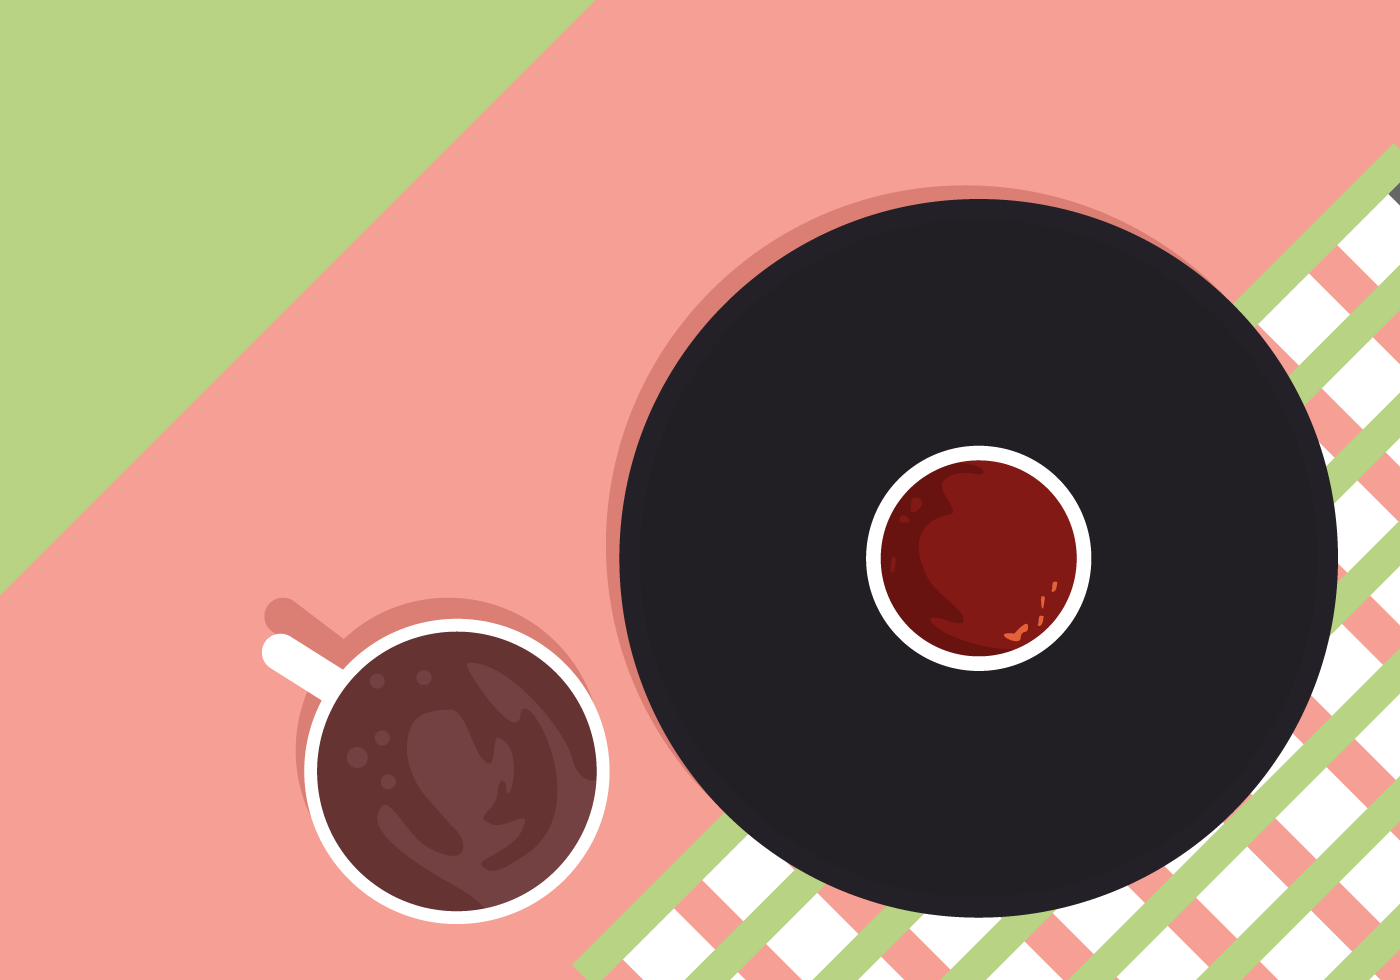
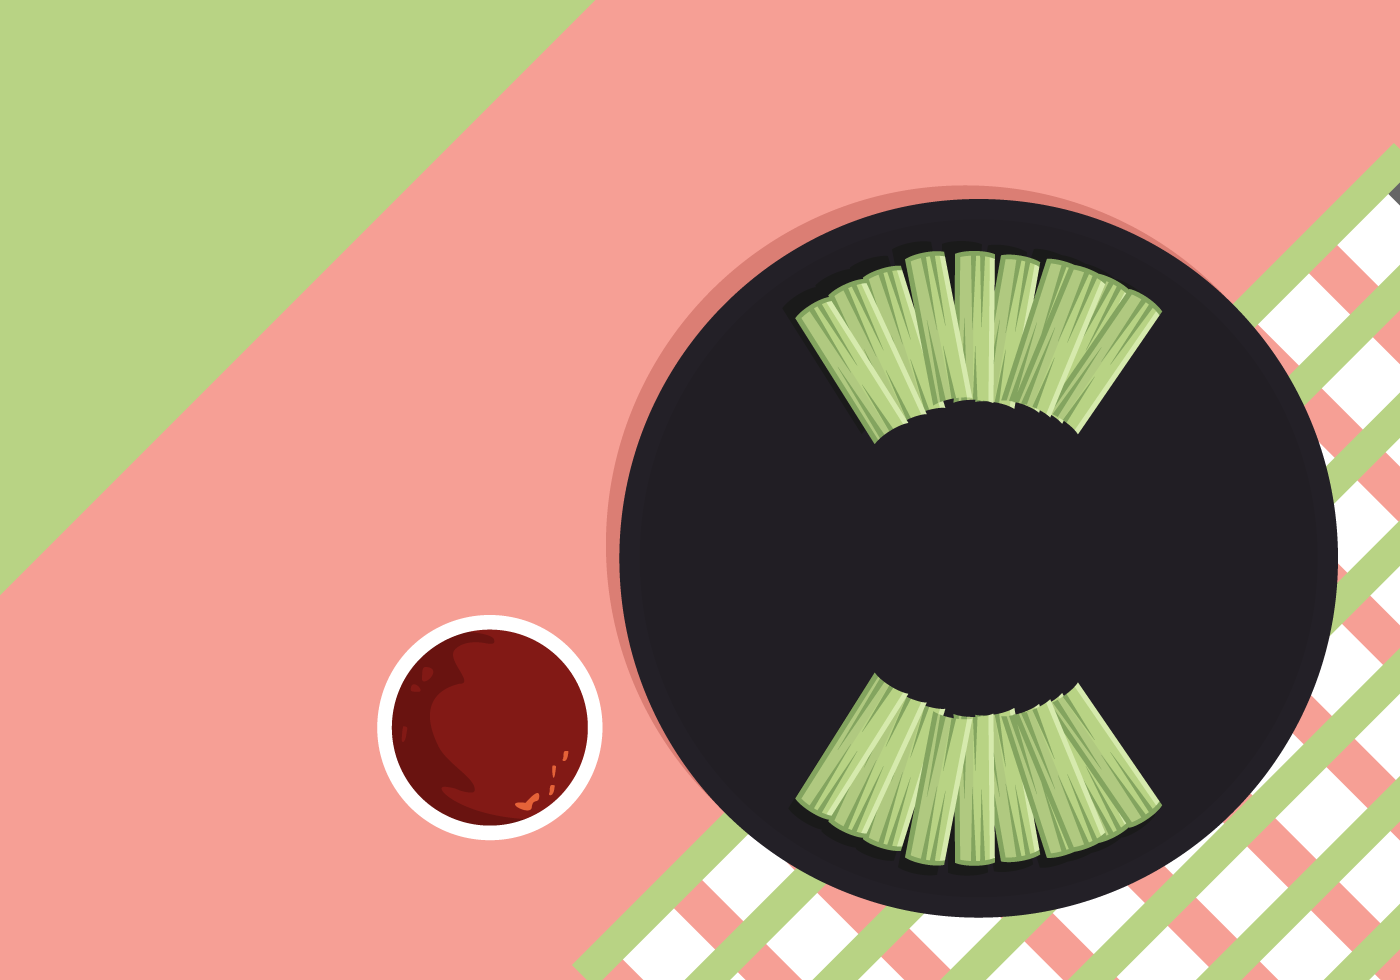
wings

Changed region(s): [[0.5529, 0.2449, 0.8293, 0.8878], [0.1843, 0.6122, 0.4607, 0.949]]

diff --git a/scripts.js b/scripts.js
@@ -7,37 +7,59 @@ class wingClass {
     }
 
     getPrice () {
-        console.log(Math.round(this.price * this.amount));
+        //console.log(Math.round(this.price * this.amount));
     }
 
     getAmount () {
-        console.log(this.amount);
+        //console.log(this.amount);
     }
 
     getCalories () {
-        console.log(81 * this.amount);
+        //console.log(81 * this.amount);
     }
     
     addWingAmountToDom(){
-            for (var i = 0; i <= this.amount; i++) {
+        for (var i = 0; i < this.amount; i++) {
           document.getElementById("bucket").innerHTML += this.img + "\n";
         }     		
     }
 }
 
+var wingCount = 4; 
+document.getElementById("wing-amount").innerHTML = wingCount;
 document.addEventListener("click", function(e) {
-  if (e.target.id == "plain") {
-    var wingOrderPlain = new wingClass(document.getElementById("wing-amount").value, 0.98, "<img src='assets/wing.png'/>");
+    if (e.target.id == "more") {
+        document.getElementById("wing-amount").innerHTML = wingCount = wingCount + 1;
+    } 
+});
+
+
+document.addEventListener("click", function(e) {
+ if (e.target.id == "plain") {
+    var wingOrderPlain = new wingClass(parseInt(document.getElementById("wing-amount").innerHTML), 0.98, "<div class='wing-container'><img class='wing' src='assets/wing.png'/></div>");
+    wingOrderPlain.getAmount();
     wingOrderPlain.addWingAmountToDom();
     wingOrderPlain.getPrice();
     wingOrderPlain.getCalories()
 } else if (e.target.id === "bbq" || e.target.id === "honey-bbq") {
-    var wingOrderBBQ = new wingClass(document.getElementById("wing-amount").value, 1.05);
+    var wingOrderBBQ = new wingClass(document.getElementById("wing-amount").innerHTML, 1.05, "<div class='wing-container'><img class='wing' src='assets/wing_bbq.png'/></div>");
+    wingOrderBBQ.addWingAmountToDom();
     wingOrderBBQ.getPrice();
+    wingOrderBBQ.getCalories()
 } else if (e.target.id === "sweet-chilli") {
     var wingOrderSweetChilli = new wingClass(document.getElementById("wing-amount").value, 1.19);
     wingOrderSweetChilli.getPrice();
-} else {
+} else if (e.target.id === "clear") {
     document.getElementById("bucket").innerHTML = "";
+    wingCount = 4;
+    document.getElementById("wing-amount").innerHTML = wingCount;
 }
+
+if (document.querySelectorAll(".wing").length > 12) {
+    for (var w = 0; w < document.querySelectorAll(".wing").length; w++) {
+        document.querySelectorAll(".wing")[w].style.width = "150px";
+    }
+}
+
 });
+

diff --git a/styles.css b/styles.css
@@ -5,3 +5,51 @@ body {
     background-attachment: fixed;
     background-position: 50% 70%;
 }
+
+#bucket {
+    position: relative;
+    width: 825px;
+    height: 400px;
+    float: right;
+    top: 148px;
+    left: -157px;
+}
+
+.wing-container {
+    opacity: 0;
+	-webkit-animation: pop 0.2s 1;
+	animation: pop 0.2s 1;
+	-webkit-animation-fill-mode: forwards;
+    animation-fill-mode: forwards;
+    display: inline-block;
+}
+
+.wing-container:nth-of-type(even) .wing {
+    -webkit-transform:rotate(-138deg);
+    -moz-transform: rotate(-138deg);
+    -ms-transform: rotate(-138deg);
+    -o-transform: rotate(-138deg);
+    transform: rotate(-138deg);
+    width: 190px;
+}
+
+.wing-container:nth-of-type(odd) .wing {
+    -webkit-transform:rotate(-181deg);
+    -moz-transform: rotate(-181deg);
+    -ms-transform: rotate(-181deg);
+    -o-transform: rotate(-181deg);
+    transform: rotate(-181deg);
+    margin: 5px;
+    width: 190px;
+}
+
+@-webkit-keyframes pop {
+    0% { 
+        opacity: 0;
+        transform: scale(0.5);
+    }
+    100% {
+        opacity: 1;
+        transform: scale(1);
+    }
+  }

diff --git a/index.html b/index.html
@@ -5,14 +5,9 @@
 <link rel="stylesheet" type="text/css" href="styles.css">
 </head>
 <body>
-    <select id="wing-amount">
-        <option value="4">4</option>
-        <option value="8">8</option>
-        <option value="12">12</option>
-        <option value="16">16</option>
-        <option value="20">20</option>
-      </select>
-      
+    <span id="wing-amount">
+    </span>
+    <span id="more">+</span><br>
       <span id="plain">Plain</span>
       <span id="bbq">BBQ</span>
       <span id="honey-bbq">Honey BBQ</span>
